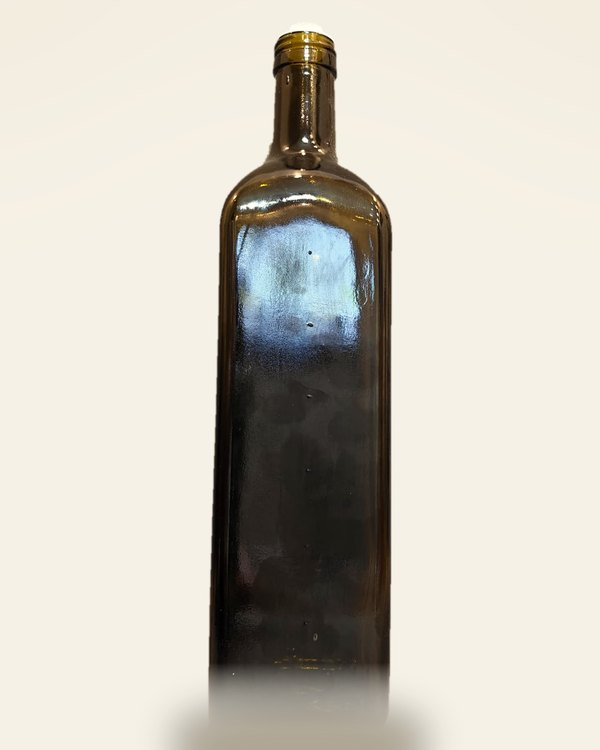
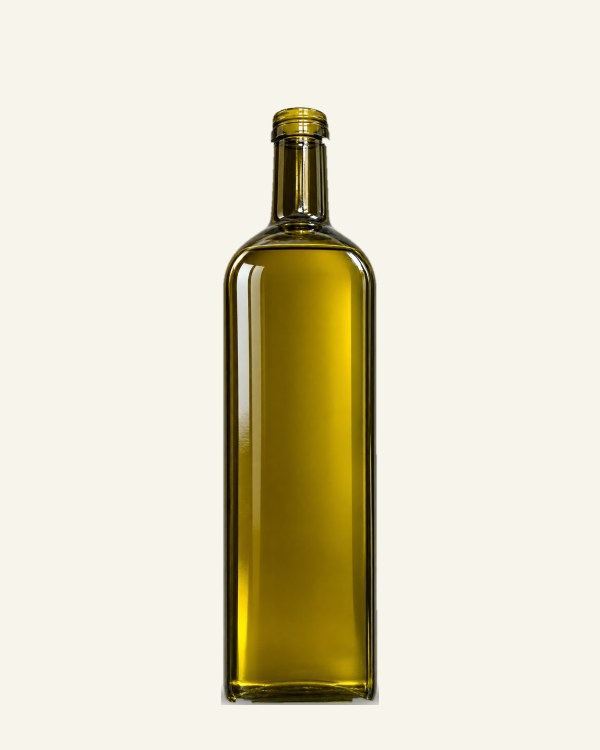
Replace bottle photo with new full-bottle shot; free shipping in Mansoura + wholesale
- Swap public/products/* to the new minimalist full-bottle photo (black
  background cut out via GrabCut); update Hero intrinsic size 369x1403 ->
  391x1476
- Shipping: fee = 0 when city matches Mansoura (loose AR/EN match) or when
  the order reaches wholesaleMinQty (12 bottles); otherwise zone fee.
  Single resolver shippingFeeFor() shared by server action and checkout
  preview
- Arabic UI copy: checkout free-shipping notes, shipping-page free block,
  announcement bar, product shipping blurb (EN mirrors added too)
- Docs: README photography note, SETUP_TODO shipping checklist

Changed region(s): [[0.27, 0.0307, 0.75, 1.0]]

diff --git a/src/lib/i18n.ts b/src/lib/i18n.ts
@@ -158,7 +158,7 @@ const ar = {
     unavailable: "هذا الحجم غير متوفر حاليًا",
     stockLeft: "متبقي {n} فقط",
     shippingTitle: "الشحن",
-    shippingBody: "توصيل لجميع محافظات مصر. تُحسب تكلفة الشحن حسب المحافظة في صفحة إتمام الطلب.",
+    shippingBody: "توصيل لجميع محافظات مصر. التوصيل مجاني داخل المنصورة، ومجاني لطلبات الجملة لباقي المحافظات. تُحسب تكلفة الشحن حسب المحافظة في صفحة إتمام الطلب.",
     returnsTitle: "الإرجاع",
     returnsBody: "لو وصلت العبوة تالفة، تواصل معنا خلال ٤٨ ساعة من الاستلام.",
     storage: "التخزين",
@@ -211,6 +211,8 @@ const ar = {
     gatewayDesc: "الدفع الإلكتروني غير مفعّل بعد.",
     summary: "ملخص الطلب",
     shippingFee: "مصروفات الشحن",
+    freeCityNote: "شحن مجاني داخل المنصورة.",
+    freeWholesaleNote: "شحن مجاني لطلب الجملة ({n} زجاجة فأكثر).",
     placeOrder: "تأكيد الطلب",
     placing: "جارٍ إرسال الطلب…",
     errorGeneric: "لم نتمكن من إرسال الطلب. تحقق من البيانات وحاول مرة أخرى.",
@@ -300,6 +302,9 @@ const ar = {
     eyebrow: "الشحن والإرجاع",
     title: "كيف يصل طلبك",
     body: "نوصل لجميع محافظات مصر. توضح الجداول أدناه مصروفات الشحن التقديرية ومدة التوصيل.",
+    freeTitle: "الشحن المجاني",
+    freeCityLine: "التوصيل مجاني داخل المنصورة لكل الطلبات.",
+    freeWholesaleLine: "ولباقي المحافظات، الشحن مجاني لطلبات الجملة ({n} زجاجة فأكثر).",
     tableGov: "المحافظة",
     tableFee: "مصروفات الشحن",
     tableDays: "مدة التوصيل",
@@ -452,7 +457,7 @@ const en: Dictionary = {
     breadcrumbHome: "Home", breadcrumbShop: "Shop", size: "Size", quantity: "Quantity",
     addToCart: "Add to cart", added: "Added", unavailable: "This size is currently unavailable",
     stockLeft: "Only {n} left", shippingTitle: "Shipping",
-    shippingBody: "Delivery to all Egyptian governorates. Shipping is calculated by governorate at checkout.",
+    shippingBody: "Delivery to all Egyptian governorates. Free delivery inside Mansoura, and free shipping on wholesale orders elsewhere. Shipping is calculated by governorate at checkout.",
     returnsTitle: "Returns",
     returnsBody: "If a bottle arrives damaged, contact us within 48 hours of delivery.",
     storage: "Storage", details: "Product details", specs: "Specifications", related: "Other sizes",
@@ -481,6 +486,8 @@ const en: Dictionary = {
     instapayDesc: "InstaPay transfer after order confirmation.",
     gatewayDesc: "Online payment is not enabled yet.",
     summary: "Order summary", shippingFee: "Shipping",
+    freeCityNote: "Free delivery inside Mansoura.",
+    freeWholesaleNote: "Free shipping on wholesale orders ({n}+ bottles).",
     placeOrder: "Place order", placing: "Sending…",
     errorGeneric: "We could not submit your order. Check your details and try again.",
     emptyCart: "Your cart is empty — add a product first.",
@@ -528,6 +535,9 @@ const en: Dictionary = {
   shippingPage: {
     eyebrow: "Shipping & returns", title: "How your order arrives",
     body: "We deliver to all Egyptian governorates. The tables below show estimated shipping and delivery times.",
+    freeTitle: "Free shipping",
+    freeCityLine: "Delivery is free inside Mansoura on every order.",
+    freeWholesaleLine: "Elsewhere in Egypt, shipping is free on wholesale orders ({n}+ bottles).",
     tableGov: "Governorate", tableFee: "Shipping", tableDays: "Delivery",
     returnsTitle: "Returns & exchanges",
     returnsBody: "Because this is a food product, opened bottles cannot be returned. If a bottle arrives damaged or incorrect, contact us within 48 hours with a photo.",

diff --git a/src/lib/config.ts b/src/lib/config.ts
@@ -43,21 +43,33 @@ export const contact = {
 export const announcements = {
   ar: [
     "توصيل متاح لجميع محافظات مصر",
+    "شحن مجاني داخل المنصورة",
     "زيت زيتون بكر ممتاز — معصور على البارد",
   ],
   en: [
     "Delivery available across all Egyptian governorates",
+    "Free delivery inside Mansoura",
     "Extra virgin olive oil — cold pressed",
   ],
 };
 
 /**
  * Shipping rules. Fees are master-configurable and shown to the customer
- * before payment. No free-shipping threshold is advertised because none has
- * been confirmed by the owner.
+ * before payment.
+ *
+ * Free delivery applies when EITHER:
+ *  - the city is Mansoura (matched loosely against the free-text city field,
+ *    Arabic or Latin, with or without ال), OR
+ *  - the order qualifies as wholesale (≥ wholesaleMinQty bottles) — anywhere
+ *    outside Mansoura too.
+ * Everything else pays the zone fee below.
  */
 export const shipping = {
   freeThreshold: null as number | null,
+  /** Loose city names that always ship free (المنصورة / منصورة / Mansoura…). */
+  freeCityNames: ["منصورة", "منصوره", "mansoura", "mansurah"],
+  /** Wholesale = at least this many bottles in one order; ships free. */
+  wholesaleMinQty: 12,
   codFee: 0,
   zones: {
     cairo: { ar: "القاهرة", en: "Cairo", fee: 60, days: "1–2" },
@@ -95,6 +107,31 @@ export const shipping = {
 };
 
 export type ZoneKey = keyof typeof shipping.zones;
+
+/** Total bottles in an order — the input for the wholesale check. */
+export type FeeContext = { governorate: ZoneKey; city: string; totalQty: number };
+
+/** True when the free-text city field names Mansoura (AR/EN, with ال or not). */
+export function isFreeCity(city: string): boolean {
+  const v = city.trim().toLowerCase();
+  if (!v) return false;
+  return shipping.freeCityNames.some((name) => v.includes(name));
+}
+
+/** True when the order reaches the wholesale quantity threshold. */
+export function isWholesale(totalQty: number): boolean {
+  return totalQty >= shipping.wholesaleMinQty;
+}
+
+/**
+ * Single source of truth for the shipping fee — used by the server action
+ * (authoritative, re-prices the order) and by the checkout summary preview
+ * so what the customer sees is what gets charged.
+ */
+export function shippingFeeFor({ governorate, city, totalQty }: FeeContext): number {
+  if (isFreeCity(city) || isWholesale(totalQty)) return 0;
+  return shipping.zones[governorate]?.fee ?? shipping.defaultFee;
+}
 
 export const payments = {
   cod: { enabled: true, labelAr: "الدفع عند الاستلام", labelEn: "Cash on delivery" },

diff --git a/src/components/store/CheckoutForm.tsx b/src/components/store/CheckoutForm.tsx
@@ -10,7 +10,7 @@ import { submitOrder } from "@/app/actions/orders";
 import { useCartLines, useCartStore } from "@/lib/cart-store";
 import { useHydrated } from "@/lib/use-hydrated";
 import { checkoutSchema, fieldErrors } from "@/lib/checkout-schema";
-import { payments, shipping, type ZoneKey } from "@/lib/config";
+import { payments, shipping, shippingFeeFor, isFreeCity, isWholesale, type ZoneKey } from "@/lib/config";
 import { cx, formatPrice } from "@/lib/format";
 import type { Dictionary } from "@/lib/i18n";
 import type { Locale } from "@/lib/products";
@@ -53,8 +53,19 @@ export function CheckoutForm({ locale, dict }: { locale: Locale; dict: Dictionar
   };
 
   const subtotal = lines.reduce((s, l) => s + l.lineTotal, 0);
-  const zoneFee = form.governorate ? shipping.zones[form.governorate]?.fee ?? shipping.defaultFee : null;
+  const totalQty = lines.reduce((s, l) => s + l.qty, 0);
+  const zoneFee = form.governorate
+    ? shippingFeeFor({ governorate: form.governorate, city: form.city, totalQty })
+    : null;
   const shippingFee = zoneFee ?? 0;
+  const freeReason =
+    zoneFee === 0
+      ? isFreeCity(form.city)
+        ? ("city" as const)
+        : isWholesale(totalQty)
+          ? ("wholesale" as const)
+          : null
+      : null;
   const total = subtotal + shippingFee;
 
   const set = (field: keyof typeof form, value: string) => {
@@ -372,9 +383,22 @@ export function CheckoutForm({ locale, dict }: { locale: Locale; dict: Dictionar
             <div className="flex justify-between">
               <dt className="text-ink-muted">{dict.checkout.shippingFee}</dt>
               <dd className="tnum text-forest">
-                {zoneFee === null ? <span className="text-[0.72rem] text-ink-muted">{dict.cart.shippingNote}</span> : formatPrice(shippingFee, locale)}
+                {zoneFee === null ? (
+                  <span className="text-[0.72rem] text-ink-muted">{dict.cart.shippingNote}</span>
+                ) : zoneFee === 0 ? (
+                  <span className="text-forest">{dict.cart.free}</span>
+                ) : (
+                  formatPrice(shippingFee, locale)
+                )}
               </dd>
             </div>
+            {freeReason === "city" ? (
+              <p className="text-[0.7rem] leading-6 text-forest">{dict.checkout.freeCityNote}</p>
+            ) : freeReason === "wholesale" ? (
+              <p className="text-[0.7rem] leading-6 text-forest">
+                {dict.checkout.freeWholesaleNote.replace("{n}", String(shipping.wholesaleMinQty))}
+              </p>
+            ) : null}
           </dl>
 
           <div className="mt-5 flex items-center justify-between border-t border-gold/25 pt-5">

diff --git a/src/app/[locale]/shipping/page.tsx b/src/app/[locale]/shipping/page.tsx
@@ -39,6 +39,20 @@ export default async function ShippingPage({ params }: { params: Promise<{ local
       <section className="paper py-14 md:py-20">
         <div className="container-page grid gap-12 lg:grid-cols-[1.3fr_0.7fr] lg:gap-16">
           <div>
+            <div className="mb-6 border border-forest/25 bg-cream/50 p-5">
+              <h2 className="text-[1.05rem] text-forest">{dict.shippingPage.freeTitle}</h2>
+              <ul className="mt-3 space-y-2 text-[0.85rem] leading-7 text-ink-muted">
+                <li className="flex items-start gap-2">
+                  <span aria-hidden className="mt-2 size-1.5 shrink-0 rounded-full bg-gold" />
+                  {dict.shippingPage.freeCityLine}
+                </li>
+                <li className="flex items-start gap-2">
+                  <span aria-hidden className="mt-2 size-1.5 shrink-0 rounded-full bg-gold" />
+                  {dict.shippingPage.freeWholesaleLine.replace("{n}", String(shipping.wholesaleMinQty))}
+                </li>
+              </ul>
+            </div>
+
             <div className="overflow-hidden border border-gold/20">
               <table className="w-full border-collapse text-[0.85rem]">
                 <caption className="sr-only">{dict.shippingPage.title}</caption>

diff --git a/src/lib/orders.ts b/src/lib/orders.ts
@@ -1,7 +1,7 @@
 import "server-only";
 import { getDb } from "./db";
 import { products } from "./products";
-import { shipping, type ZoneKey } from "./config";
+import { shippingFeeFor, type ZoneKey } from "./config";
 import { checkoutSchema } from "./checkout-schema";
 
 export { governorateKeys } from "./checkout-schema";
@@ -31,8 +31,6 @@ export type OrderItem = {
   unit_price: number;
   qty: number;
 };
-
-const shippingFor = (zone: ZoneKey) => shipping.zones[zone]?.fee ?? shipping.defaultFee;
 
 const makeReference = () => {
   const d = new Date();
@@ -73,7 +71,13 @@ export function createOrder(raw: unknown): { ok: true; reference: string } | { o
   }
 
   const subtotal = lines.reduce((s, l) => s + l.unitPrice * l.qty, 0);
-  const fee = shippingFor(input.governorate as ZoneKey);
+  // Mansoura and wholesale orders ship free — same resolver as the checkout preview.
+  const totalQty = lines.reduce((s, l) => s + l.qty, 0);
+  const fee = shippingFeeFor({
+    governorate: input.governorate as ZoneKey,
+    city: input.city,
+    totalQty,
+  });
   const total = subtotal + fee;
 
   const existing = db

diff --git a/src/components/home/Hero.tsx b/src/components/home/Hero.tsx
@@ -102,8 +102,8 @@ export function Hero({ locale, dict }: { locale: Locale; dict: Dictionary }) {
                     ? "زجاجة زيت زيتون بكر ممتاز من آل سليمان"
                     : "Alsuliman extra virgin olive oil bottle"
                 }
-                width={369}
-                height={1403}
+                width={391}
+                height={1476}
                 priority
                 sizes="(max-width: 1024px) 60vw, 32vw"
                 className="h-[90%] w-auto object-contain drop-shadow-[0_28px_36px_rgba(38,49,31,0.28)]"

diff --git a/SETUP_TODO.md b/SETUP_TODO.md
@@ -29,7 +29,9 @@ The site runs end-to-end today; unconfirmed data stays empty or flagged.
 رسوم الشحن وجدول المحافظات في `src/lib/config.ts → shipping` مبدئية.
 
 - [ ] أكّد رسوم كل محافظة والمدد المعلنة (`fee`, `days`)
-- [ ] أضف حد الشحن المجاني `freeThreshold` إن وُجد (الحالي `null` — لا يُعلن شيء)
+- [ ] أكّد قواعد الشحن المجاني الحالية في `src/lib/config.ts → shipping`:
+      المنصورة مجانًا (`freeCityNames`)، وطلبات الجملة ١٢ زجاجة فأكثر
+      (`wholesaleMinQty`) مجانًا لباقي المحافظات — الرقم مبدئي ويحتاج تأكيدك
 
 ## 4. بيانات التواصل / Contact
 

diff --git a/README.md b/README.md
@@ -92,9 +92,9 @@ The current wordmark is a **temporary placeholder** (`src/components/brand/Logo.
 1. Drop the file at `public/brand/logo.png` (transparent PNG, ~640 px wide).
 2. Set `logoMode: "image"` in `src/lib/config.ts`.
 
-The bottle photography in `public/products/` is derived from the single supplied
-product photo. The bottle, label and cap are never altered — only the background
-is removed and a warm colour grade is applied.
+The bottle photography in `public/products/` is derived from the supplied
+product photos (currently the minimalist full-bottle shot). Only the background
+is removed — the bottle itself is never altered.
 
 ---
 
